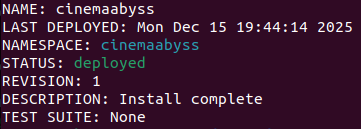
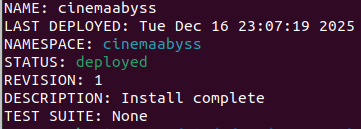
Helm: корректировка конфигурации values. Обновлены скриншоты результатов

diff --git a/Project_template.md b/Project_template.md
@@ -364,6 +364,7 @@ https://cinemaabyss.example.com/api/movies
 ![Развёртывание Helm](task4/helm_info.png)
 ![Поды k8s](task4/helm_k8s_pods.png)
 ![Вывод при вызове вышеуказанного url](task4/helm_movies.png)
+![Результаты тестов](task4/helm_res_tests.png)
 
 ## Удаляем все
 
